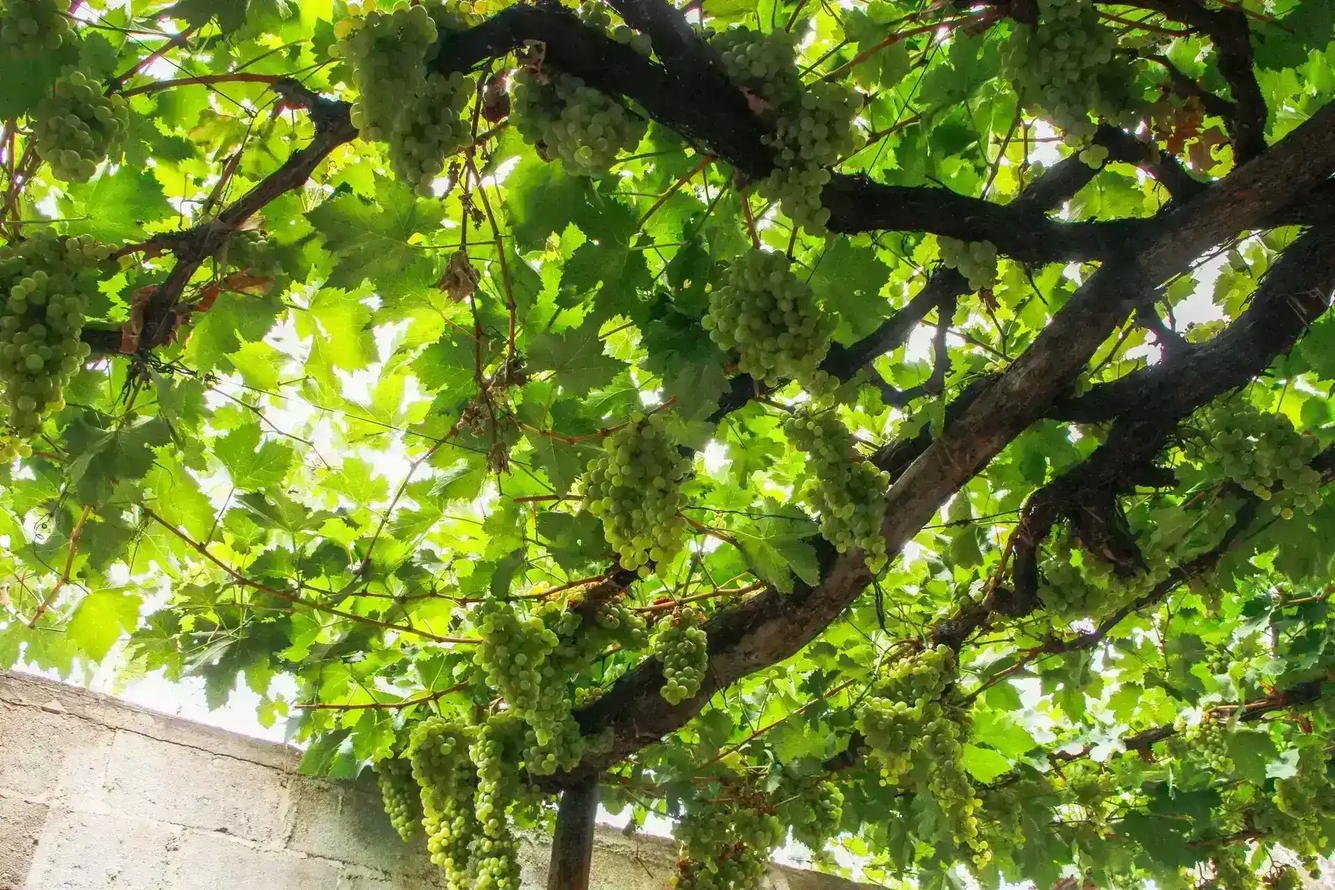
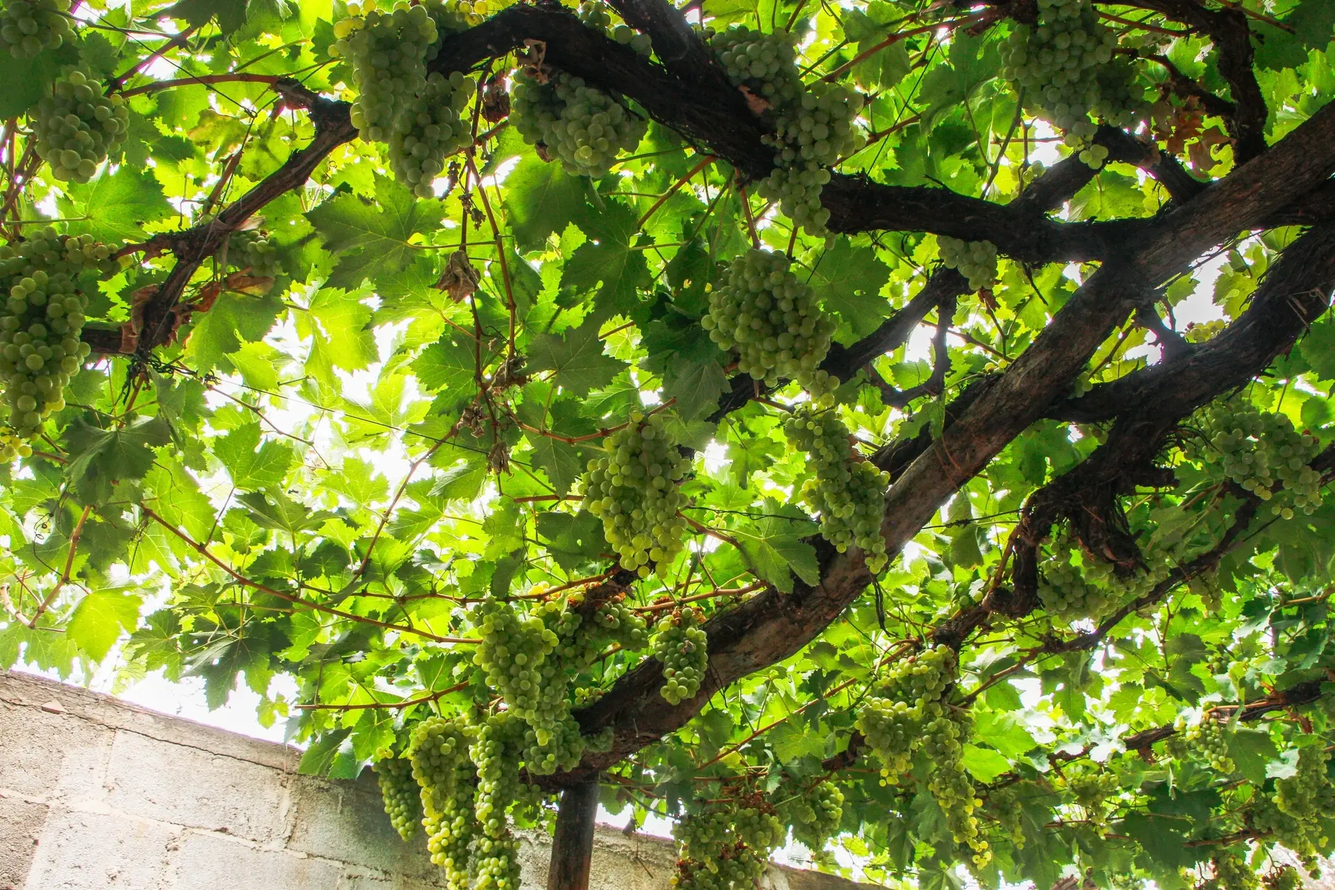
Agregue imagenes con mejor calidad en lugar de las actuales de las distintas paginas

diff --git a/CSS/detalleHabitacion.min.css b/CSS/detalleHabitacion.min.css
@@ -1,1 +1,1 @@
-body{background:#f1e8d6}.sectionRoom{width:100%}.containerImg{width:100%}.containerImg img{width:100%;height:60vh;cursor:pointer;object-fit:cover}.containerSmallImg{width:100%}.containerSmallImg .smallImg{width:100%;min-width:70px;max-width:120px;height:15vh;cursor:pointer;object-fit:fill}.containerAmenities i{color:#c6a767}.fullscreen{display:none;position:fixed;top:0;left:0;width:100%;height:100%;background:rgba(0,0,0,.9);justify-content:center;align-items:center;z-index:99;margin:auto;cursor:pointer}.carouselFullScreen{width:100%}.imgCarousel{width:100%;height:60vh;object-fit:contain}.fullscreen i{display:none;color:#fff;font-size:30px;cursor:pointer;margin-bottom:20px}.containerAmenities div{width:120px}.sectionMoreRooms{background:#F4F3E8}.cardRoom{width:375px;min-height:60vh;background:#F4F3E8}.cardRoom .containerImgCard{height:352px}.containerImgCard img{width:100%;height:100%;object-fit:cover}.btnMoreInfo{border:1px solid #8f884d;background:#d3ac5e;background:#ba9f6a}.btnMoreInfo:hover{border:1px solid #111010;background:#bb9852;background:#b8954f;transition:all .2s ease-in-out}@media all and (min-width:375px){.containerSmallImg .smallImg{height:12vh}.carouselFullScreen .imgCarousel{height:65vh}}@media all and (min-width:576px){.containerImg img{height:70vh}.carouselFullScreen .imgCarousel{max-width:700px;height:75vh}.carouselFullScreen{max-width:680px}}@media all and (min-width:768px){.containerImg{text-align:center}.containerImg img{width:80%;height:65vh}.carouselFullScreen{max-width:680px}.carouselFullScreen .imgCarousel{width:100%}}@media all and (min-width:992px){.articleImgRoom{width:48%}.containerImg img{width:100%}.descriptionRoom{width:50%}}@media all and (min-width:1400px){.sectionRoom{padding:120px}.containerImg{max-width:750px;height:70vh}.containerImg img{width:100%;height:100%}}
+body{background:#f1e8d6}.sectionRoom{width:100%}.containerImg{width:100%}.containerImg img{width:100%;height:60vh;cursor:pointer;object-fit:cover}.containerSmallImg{width:100%}.containerSmallImg .smallImg{width:100%;min-width:70px;max-width:120px;height:15vh;cursor:pointer;object-fit:fill}.containerAmenities i{color:#c6a767}.fullscreen{display:none;position:fixed;top:0;left:0;width:100%;height:100%;background:rgba(0,0,0,.9);justify-content:center;align-items:center;z-index:99;margin:auto;cursor:pointer}.carouselFullScreen{width:100%}.imgCarousel{width:100%;height:60vh;object-fit:contain}.fullscreen i{display:none;color:#fff;font-size:30px;cursor:pointer;margin-bottom:20px}.containerAmenities div{width:120px}.sectionMoreRooms{background:#F4F3E8}.cardRoom{width:375px;min-height:60vh;background:#F4F3E8}.cardRoom .containerImgCard{height:352px}.containerImgCard img{width:100%;height:100%;object-fit:cover}.btnMoreInfo{border:1px solid #8f884d;background:#d3ac5e;background:#ba9f6a}.btnMoreInfo:hover{border:1px solid #111010;background:#bb9852;background:#b8954f;transition:all .2s ease-in-out}@media all and (min-width:375px){.containerSmallImg .smallImg{height:12vh}.carouselFullScreen .imgCarousel{height:65vh}}@media all and (min-width:576px){.containerImg img{height:70vh}.carouselFullScreen .imgCarousel{max-width:700px;height:75vh}.carouselFullScreen{max-width:680px}}@media all and (min-width:768px){.containerImg{text-align:center}.containerImg img{width:80%;height:65vh}.carouselFullScreen{max-width:680px}.carouselFullScreen .imgCarousel{width:100%}}@media all and (min-width:992px){.articleImgRoom{width:48%}.containerImg img{width:100%}.descriptionRoom{width:50%}}@media all and (min-width:1400px){.sectionRoom{padding:120px}.containerImg{max-width:750px;height:70vh}.containerImg img{width:100%;height:100%;object-fit:cover;}}
